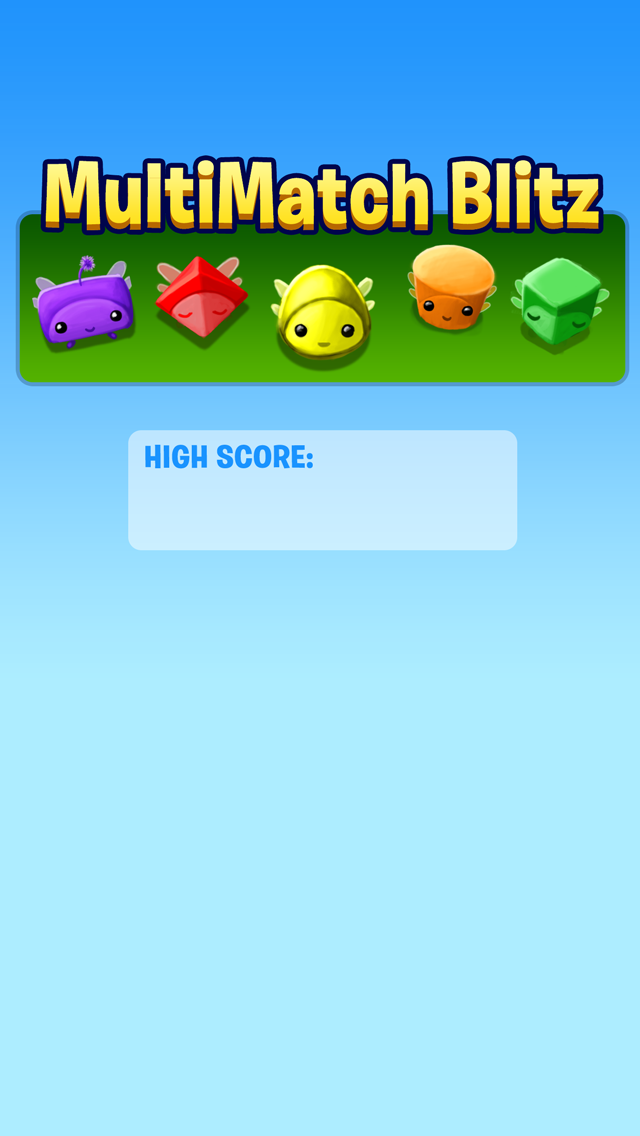
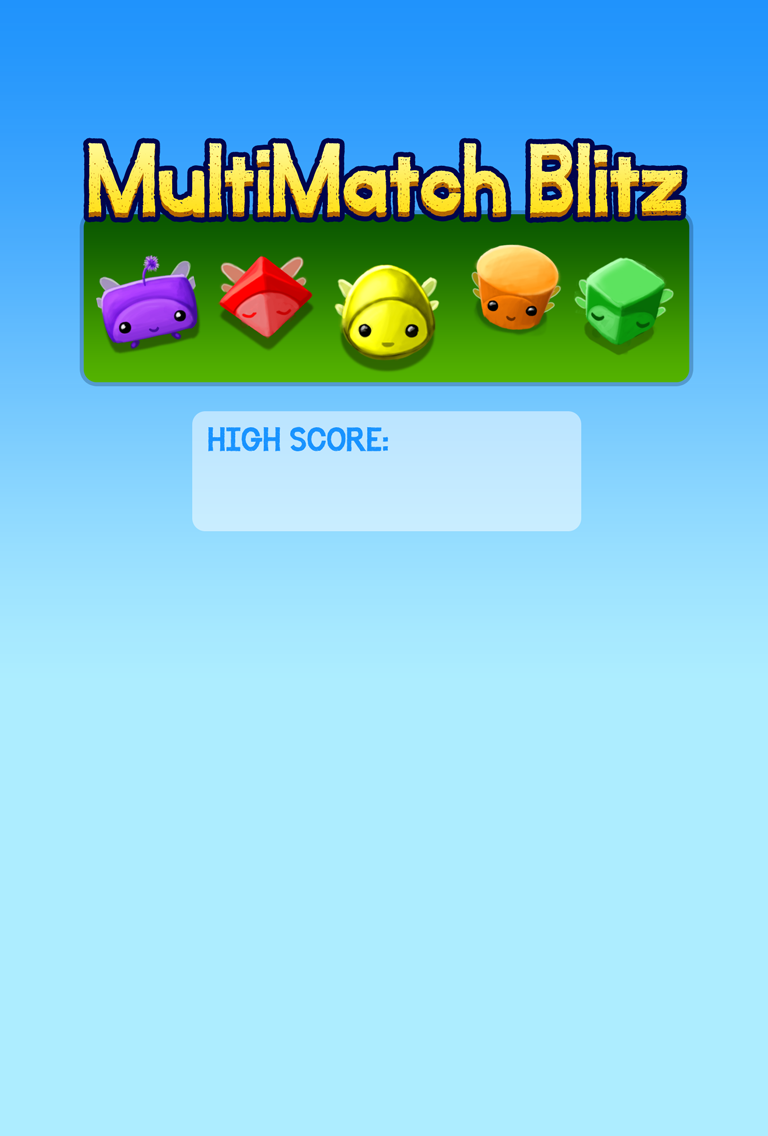
fix main menu image on iPad 1.

Changed region(s): [[0.0, 0.1232, 1.0, 0.493]]

diff --git a/JewelMania/GameMain.m b/JewelMania/GameMain.m
@@ -110,8 +110,8 @@ CGSize ws;
         if ( ws.height == 1024 && [UIScreen mainScreen].scale == 1)
         {
            mainMengBG=[[CCSprite alloc]initWithFile:@"mainMenuBG-hd.png"];
-            mainMengBG.scaleX = 1.2; // why scale this?
-            mainMengBG.scaleY = sd.imgScaleFactorY;
+          //  mainMengBG.scaleX = 1.2; // why scale this?
+          //  mainMengBG.scaleY = sd.imgScaleFactorY;
         }
         else
         {
@@ -119,8 +119,8 @@ CGSize ws;
         }
         
 		
-        mainMengBG.anchorPoint=ccp(0,0.5);
-        mainMengBG.position=ccp(0,ws.height/2);
+        mainMengBG.anchorPoint=ccp(0.5,0.5);
+        mainMengBG.position=ccp(ws.width/2 , ws.height/2);
         [mainMenuSprite addChild:mainMengBG];
         
         
